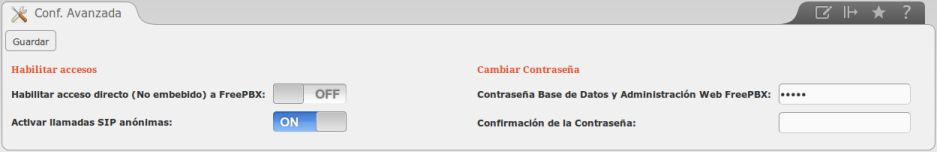
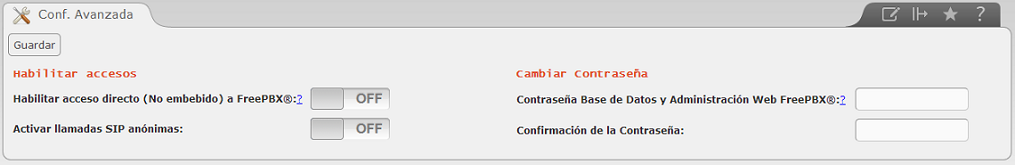
UPDATED: sec_advanced_settings module, Message copy right FreePBX was changed.

diff --git a/apps/core/security/modules/sec_advanced_settings/themes/default/js/javascript.js b/apps/core/security/modules/sec_advanced_settings/themes/default/js/javascript.js
@@ -64,4 +64,5 @@ function prepararBoton(s)
 $(document).ready(function () {
 	prepararBoton("status_fpbx_frontend");
 	prepararBoton("status_anonymous_sip");
+        $(document).toolTip();
 });

diff --git a/apps/core/security/modules/sec_advanced_settings/index.php b/apps/core/security/modules/sec_advanced_settings/index.php
@@ -96,7 +96,8 @@ function viewFormAdvancedSecuritySettings($smarty, $module_name, $local_template
     $smarty->assign("value_fpbx_frontend", $value_fpbx_frontend);
     $smarty->assign("value_anonymous_sip", $value_anonymous_sip);
     $smarty->assign("icon", "modules/".$module_name."/images/security_advanced_settings.png");
-
+    $smarty->assign("FreePBX_copy_right", _tr("FreePBX® is a Registered Trademark of Schmooze Com, Inc"));
+    
     $htmlForm = $oForm->fetchForm("$local_templates_dir/form.tpl",_tr("Advanced Security Settings"), $_POST);
     $content = "<form  method='POST' style='margin-bottom:0;' action='?menu=$module_name'>".$htmlForm."</form>";
     return $content;
